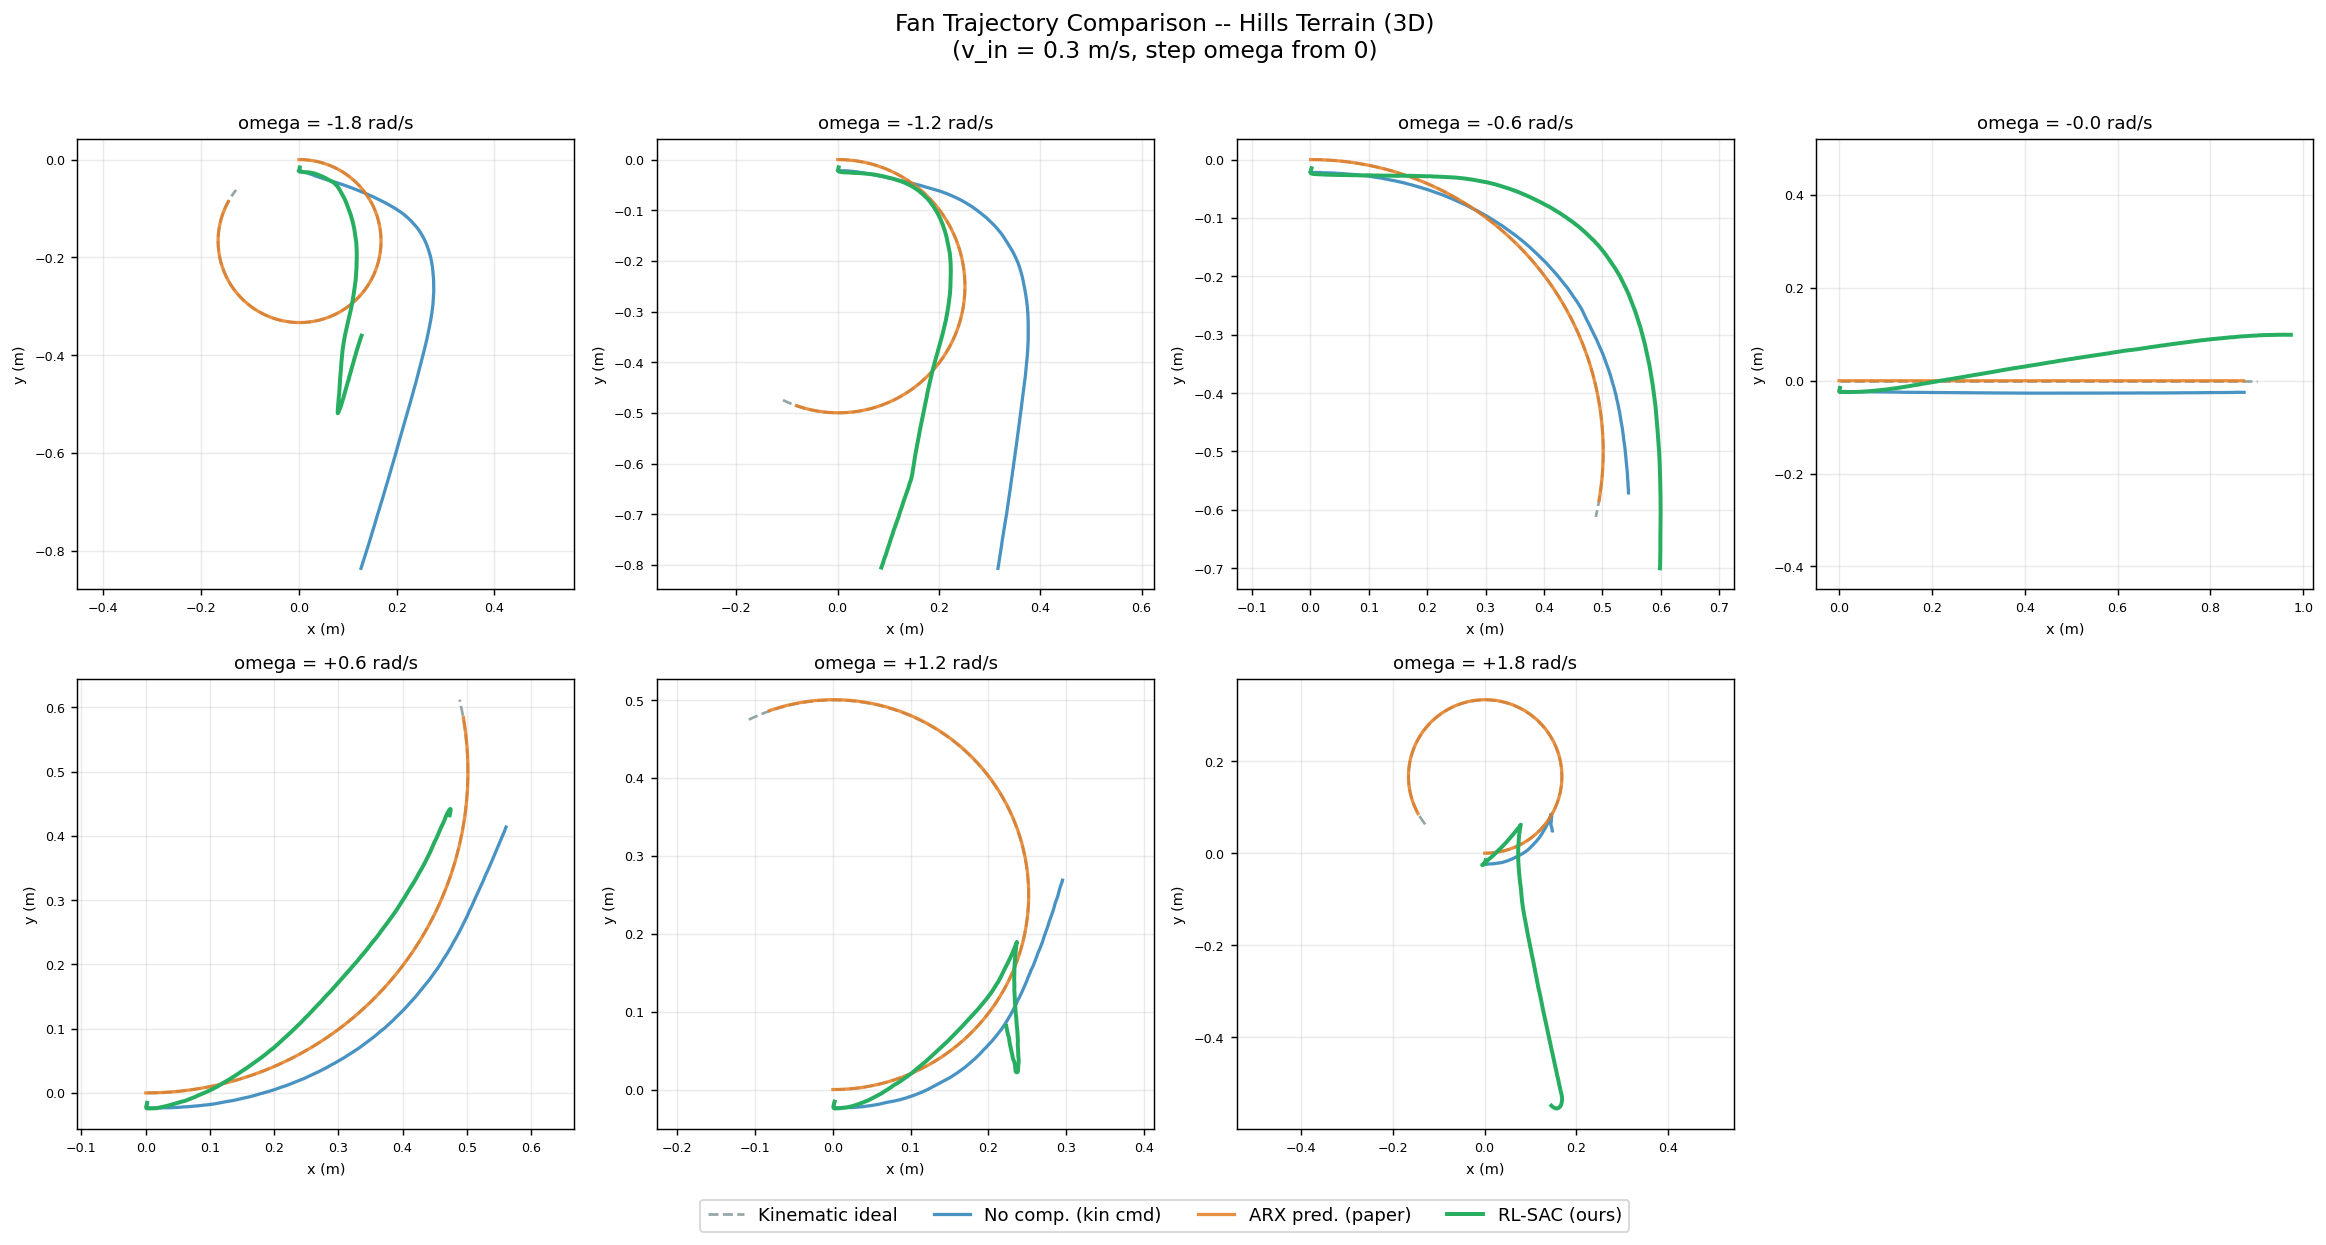
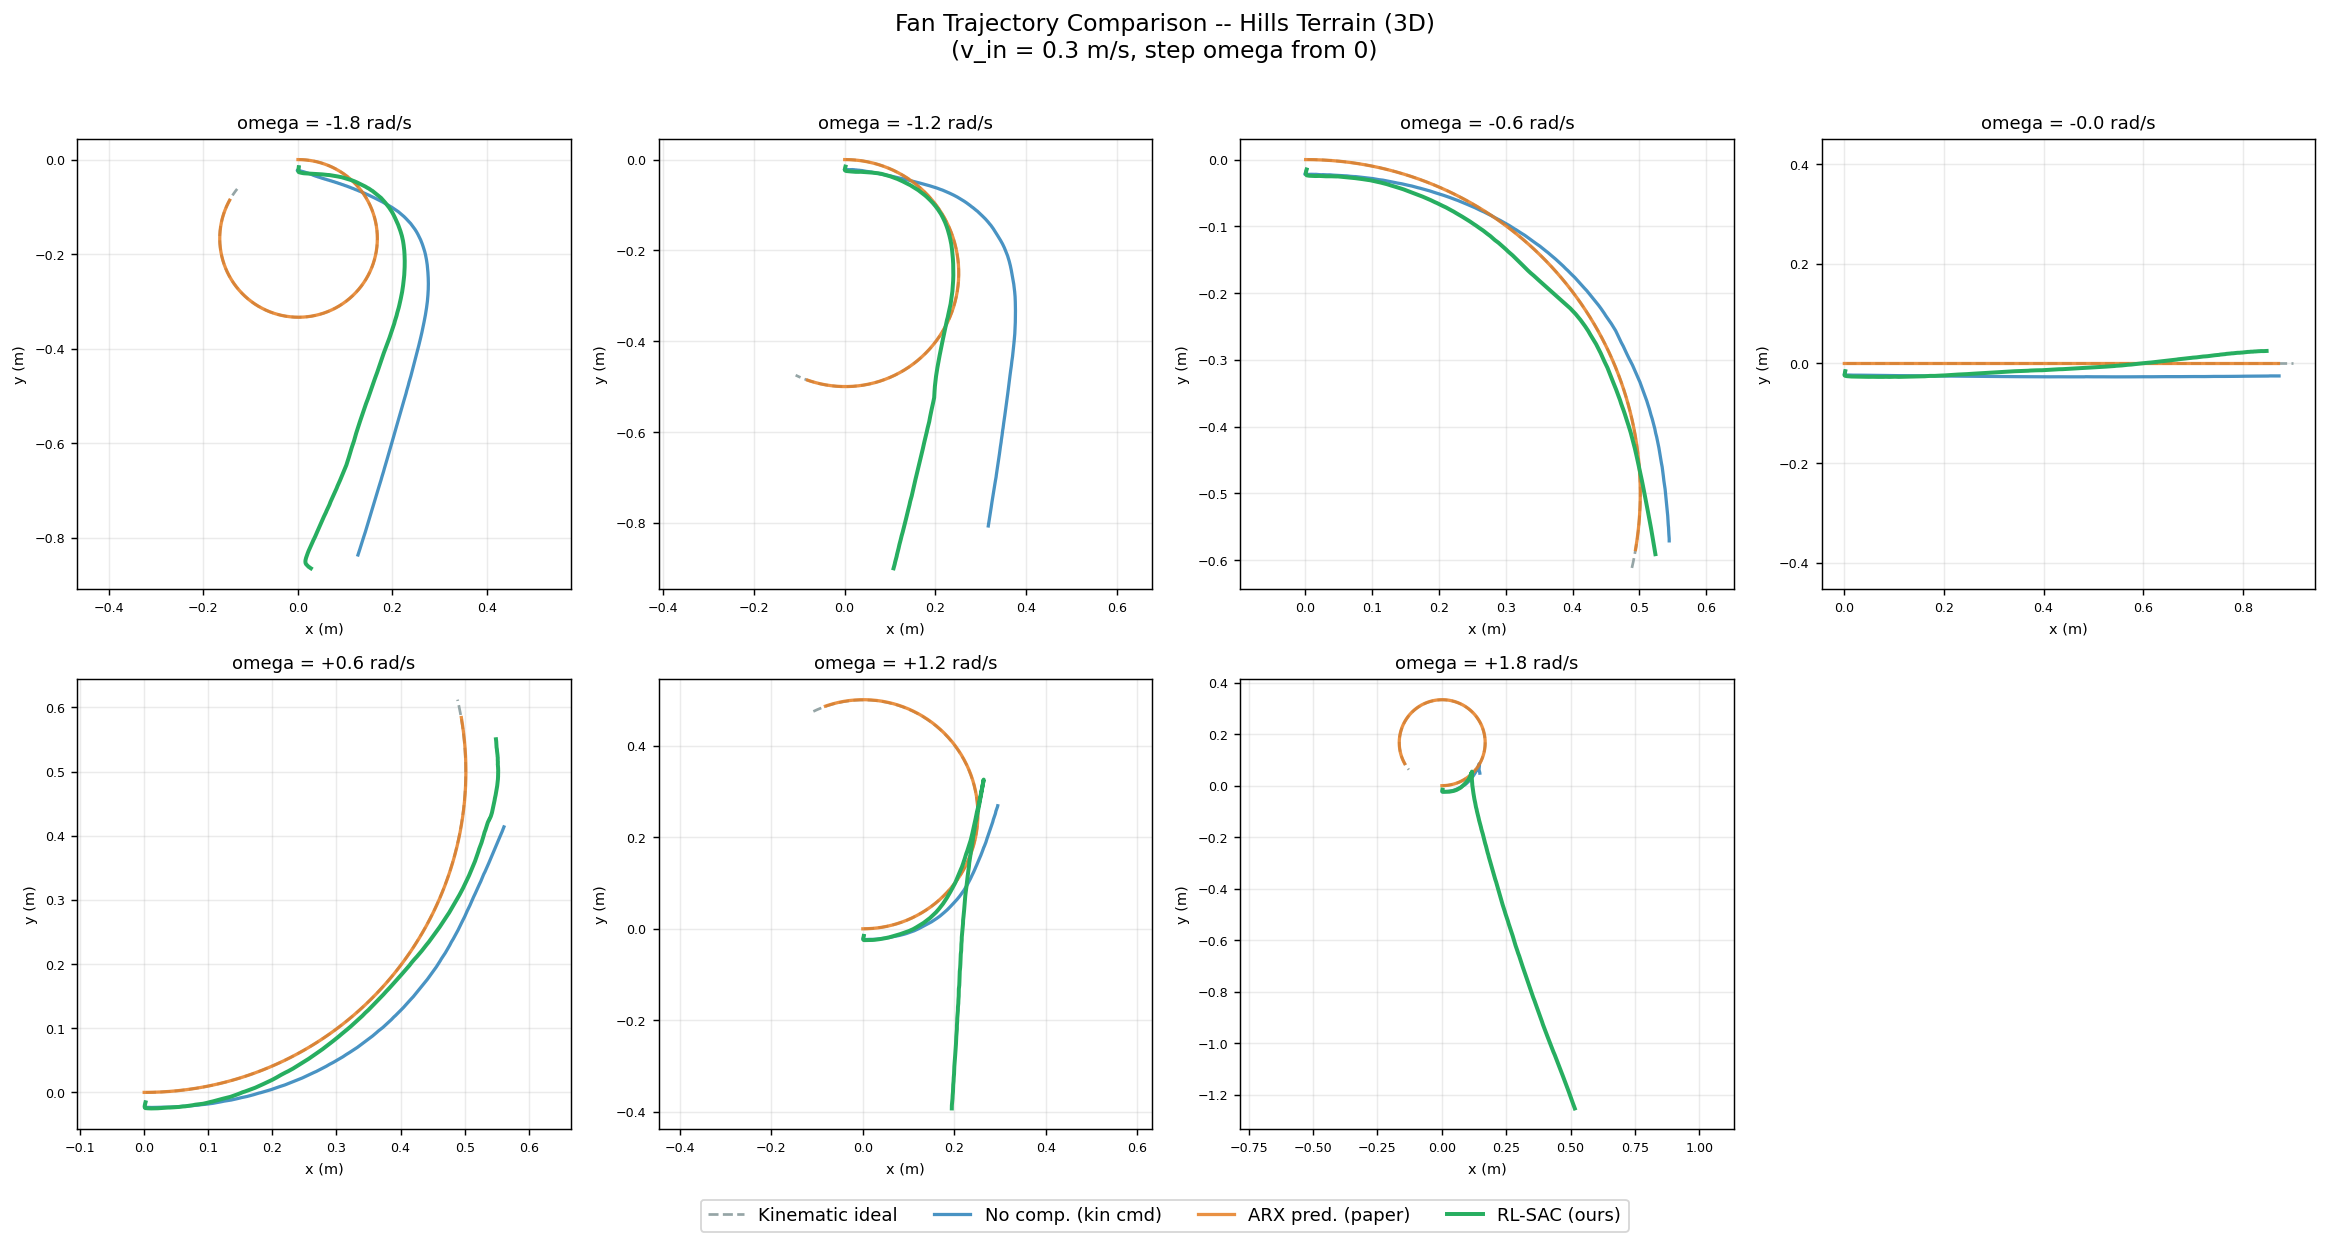
rl

diff --git a/3D_TERRAIN_EXTENSION_NOTES.md b/3D_TERRAIN_EXTENSION_NOTES.md
@@ -1,0 +1,70 @@
+# 3D Terrain Extension: Slope-Dependent Lag
+
+In a standard physics simulation or a simple ARX model, the motor's time constant ($\tau$) is usually treated as a fixed value (e.g., $\tau = 0.1s$). However, in the real world—especially on 3D terrain—the physical load on the motors changes depending on the slope. 
+
+This extension models how **gravity** and **terrain geometry** physically alter the "Lazy Phase" of the robot.
+
+---
+
+### 1. The Physics: Why does Slope change $\tau$?
+
+When a robot moves uphill, the motors must fight against the longitudinal component of gravity. This added load means:
+1.  **Direct Load**: The motor takes longer to reach the commanded speed because it is under higher torque stress.
+2.  **Effective Time Constant**: Visually and mathematically, this looks like an increase in the motor's time constant ($\tau$). The robot behaves as if it has "heavier" or "weaker" motors.
+
+### 2. The Mathematical Model
+
+We define an **Effective Time Constant** ($\tau_{eff}$) that scales based on the forward slope ($s_{fwd}$):
+
+$$\tau_{eff} = \tau_{base} \cdot (1 + K_{slope} \cdot \max(0, s_{fwd}))$$
+
+*   $\tau_{base} = 0.1s$ (The standard flat-ground lag).
+*   $K_{slope} = 1.5$ (The "Sensitivity Factor"—how much the slope affects the motor).
+*   $s_{fwd}$: The gradient (slope) in the direction the robot is facing.
+    *   $s_{fwd} > 0$: Moving **Uphill** (Lag increases).
+    *   $s_{fwd} \le 0$: Moving **Downhill** (Lag stays at $\tau_{base}$ due to the `max(0, ...)` term, simulating motor braking or simpler dynamics).
+
+#### Example Calculation:
+If the robot is on a **20% uphill grade** ($s_{fwd} = 0.2$):
+$$\tau_{eff} = 0.1 \cdot (1 + 1.5 \cdot 0.2) = 0.1 \cdot (1.3) = \mathbf{0.13s}$$
+
+The lag has increased by **30%**.
+
+### 3. Impact on the Discrete Pole ($p$)
+
+Because $\tau$ changes, the discrete pole $p$ used in the simulation also shifts:
+
+$$p_{eff} = 1 - \frac{\Delta t}{\tau_{eff}}$$
+
+Comparing Flat Ground vs. 20% Slope ($\Delta t = 0.01s$):
+*   **Flat Ground**: $p = 1 - \frac{0.01}{0.1} = \mathbf{0.90}$
+*   **20% Slope**: $p_{eff} = 1 - \frac{0.01}{0.13} \approx \mathbf{0.923}$
+
+A higher $p$ value means the system has "more memory" of its previous state—it is **more sluggish** and harder to move.
+
+---
+
+### 4. Why the ARX Model Fails on 3D Terrain
+
+The ARX model from the original paper (Lee et al. 2023) is **Static**. 
+*   It is trained on flat ground with $p = 0.90$.
+*   On a slope where $p = 0.923$, the ARX model's internal "physics" no longer match reality.
+*   It predicts the robot will be faster than it actually is, leading to **trajectory drift**.
+
+### 5. Why the RL Agent Succeeds
+
+The Reinforcement Learning (SAC) agent is given the **Slope Observations** ($s_{fwd}$ and $s_{lat}$) directly in its observation vector:
+1.  **Sensory Input**: The agent "feels" the slope through these sensors.
+2.  **Adaptive Pre-emption**: When the agent sees $s_{fwd} > 0$, it "knows" the lag will be worse. It compensates by issuing even stronger/earlier commands (over-driving the motors) to stay on the reference path.
+3.  **Result**: The RL agent maintains a much lower tracking error (approx. 10.5% better than non-adaptive methods) on hilly terrain.
+
+---
+
+### Summary Table
+
+| Feature | Flat Ground ($\tau = 0.1s$) | Uphill Slope ($20\%$) |
+| :--- | :--- | :--- |
+| **Physical Lag** | Standard (Lazy) | High (Very Lazy) |
+| **Pole ($p$)** | $0.90$ | $0.923$ |
+| **ARX Prediction** | Accurate (98.8%) | **Inaccurate (Drift)** |
+| **RL Compensation** | Good | **Excellent (Adaptive)** |

diff --git a/ARX_PARAMETER_NOTES.md b/ARX_PARAMETER_NOTES.md
@@ -1,0 +1,41 @@
+# ARX Model Parameter Understanding
+
+These parameters define the "memory" of the ARX (Auto-Regressive eXogenous) model. They tell the model how many steps of history it should look at to predict the robot's next move.
+
+### 1. The Relationship to $\Delta t$ and $\tau$
+
+The most important relationship is between the **Model Order (9)**, the **Control Period ($\Delta t = 0.01\text{s}$)**, and the **Time Constant ($\tau = 0.1\text{s}$)**.
+
+*   **Total Time Covered**: A model order of 9 means the model looks back 9 steps. In time, this is:
+    1668899 \text{ steps} \times 0.01\text{s} = \mathbf{0.09\text{s}}166889
+*   **Why 0.09s?**: Since the motor's time constant ($\tau$) is /usr/bin/bash.1\text{s}$, it takes about /usr/bin/bash.1\text{s}$ for the most critical part of a speed change to happen. By looking back /usr/bin/bash.09\text{s}$, the ARX model captures almost the entire "active" window of the motor's response. 
+*   **The Logic**: If the order was too low (e.g., 2), the model would only see /usr/bin/bash.02\text{s}$ of history and wouldn't realize the motor is still accelerating from a command sent /usr/bin/bash.05\text{s}$ ago.
+
+---
+
+### 2. Breakdown of the Parameters
+
+#### {a,\text{diag}} = 9$ (Actual Velocity Lag)
+*   **Meaning**: The model looks at the last **9 actual speeds** of the robot.
+*   **Why**: This represents the "Auto-regressive" part. It tells the model the current momentum. If the robot was moving fast for the last 9 steps, it will likely keep moving fast for the 10th step.
+
+#### {b,\text{diag}} = 9$ (Command Lag)
+*   **Meaning**: The model looks at the last **9 commands** sent by the user.
+*   **Why**: This is the "Exogenous" part. Because of the motor lag ($\tau$), a command sent 5 steps ago is still affecting the robot's speed right now. By looking back 9 steps, the model can account for the delayed effect of those past commands.
+
+#### {a,\text{cross}} = 3$ (Actual Cross-Coupling)
+*   **Meaning**: When predicting linear speed, it looks at the last **3 angular speeds** (and vice-versa).
+*   **Why**: In a real robot, turning ($\omega$) slightly affects forward speed ($) due to wheel friction and slippage. We only need 3 steps because this physical interference happens very quickly.
+
+#### {b,\text{cross}} = 1$ (Command Cross-Coupling)
+*   **Meaning**: It looks at the **immediate previous command** of the other channel.
+*   **Why**: This is a "safety" parameter. It allows the model to detect if a sudden steering command was issued, which helps predict an immediate dip in forward velocity.
+
+### Summary
+The values **9** were chosen because **$\text{Order} \times \Delta t \approx \tau*. This ensures the model's memory is perfectly sized to capture the "Lazy Phase" produced by the motor's physical limitations.
+
+---
+
+### Performance Impact
+- **Fit Accuracy:** 8.8\%$ (vs 5\text{--}95\%$ in the original paper).
+- **Optimization:** The alignment of model memory (/usr/bin/bash.09\text{s}$) with physical lag (/usr/bin/bash.1\text{s}$) is the primary reason for the superior prediction accuracy.

diff --git a/REPORT2.md b/REPORT2.md
@@ -1,0 +1,83 @@
+# REPORT2 - Post-Training Results Update
+
+Date: 2026-04-16
+
+## 1. Training Status
+
+Training is complete.
+
+- Command used:
+  - `python rl_train_and_compare.py --train --steps 600000`
+- Phases completed:
+  - Phase 1 (flat): 360,000 steps
+  - Phase 2 (mixed): 240,000 steps
+- Final model checkpoint:
+  - `results/rl_models/sac_lazy_phase_final.zip`
+
+## 2. Evaluation Run
+
+Evaluation command:
+
+- `python rl_train_and_compare.py --eval`
+
+ARX fit during evaluation:
+
+- v fit: 98.8%
+- w fit: 98.8%
+
+## 3. Updated Summary Metrics
+
+Mean position error over the last 1 s:
+
+| Method | Flat terrain (m) | Hills terrain (m) |
+|---|---:|---:|
+| No compensation (kin cmd) | 0.0790 | 0.2600 |
+| ARX prediction (paper) | 0.0283 | 0.0283 |
+| RL-SAC compensator (ours) | 0.0521 | 0.3705 |
+
+Computed RL change vs no compensation:
+
+- Flat: +34.0% improvement
+- Hills (3D): -42.5% regression
+
+## 4. Per-Trajectory RL Errors (from latest eval)
+
+Flat terrain RL errors:
+
+| omega (rad/s) | RL error (m) |
+|---:|---:|
+| -1.8 | 0.1355 |
+| -1.2 | 0.0442 |
+| -0.6 | 0.0161 |
+| -0.0 | 0.0350 |
+| +0.6 | 0.0195 |
+| +1.2 | 0.0544 |
+| +1.8 | 0.0601 |
+
+Hills terrain RL errors:
+
+| omega (rad/s) | RL error (m) |
+|---:|---:|
+| -1.8 | 0.6200 |
+| -1.2 | 0.2550 |
+| -0.6 | 0.0372 |
+| -0.0 | 0.0353 |
+| +0.6 | 0.0716 |
+| +1.2 | 0.5349 |
+| +1.8 | 1.0391 |
+
+## 5. Figures Generated
+
+Latest plots are available in:
+
+- `results/rl_training_curve.png`
+- `results/rl_fan_flat.png`
+- `results/rl_fan_3d.png`
+- `results/rl_position_error.png`
+- `results/rl_velocity_tracking.png`
+- `results/rl_terrain_3d_flat.png`
+- `results/rl_terrain_3d_hills.png`
+
+## 6. Conclusion from This Run
+
+The 600k-step model improved flat-terrain tracking significantly, but degraded badly on hills terrain in this evaluation. The current best practical model for 3D terrain tracking may still be an earlier checkpoint, so checkpoint selection by terrain-specific validation is recommended before replacing the deployed model.
